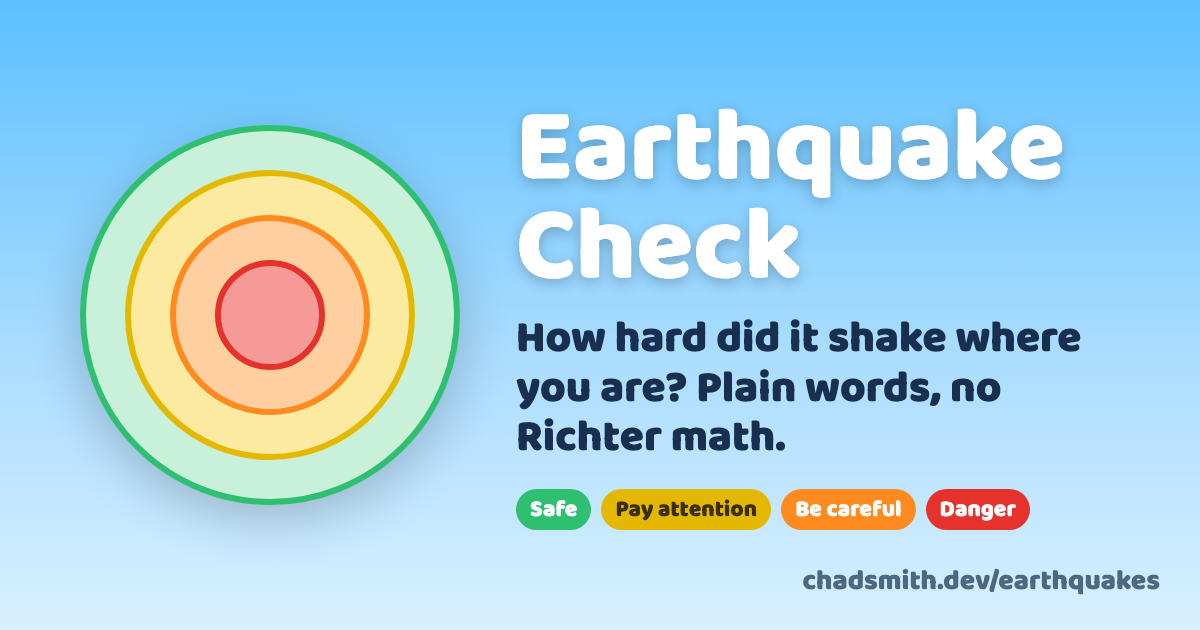
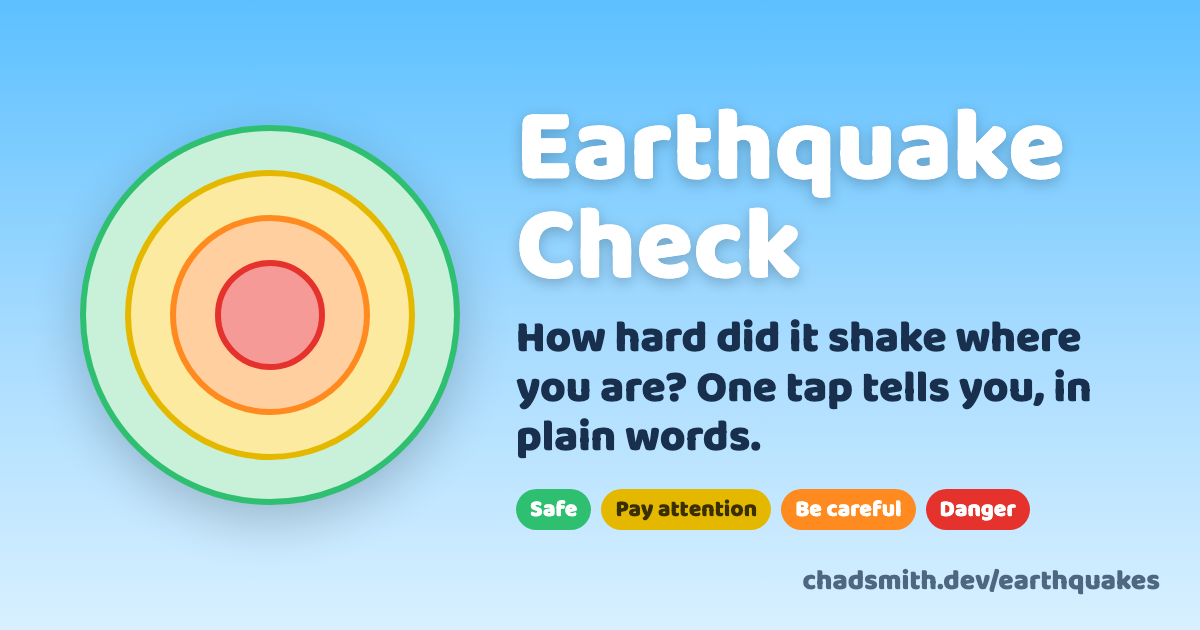
earthquake share card: drop richter line

Changed region(s): [[0.4317, 0.573, 0.925, 0.7238]]

diff --git a/tools/og-card.html b/tools/og-card.html
@@ -41,7 +41,7 @@
   const quakes = location.hash === "#quakes";
   document.getElementById("title").textContent = quakes ? "Earthquake Check" : "Tsunami Check";
   document.getElementById("line").textContent = quakes
-    ? "How hard did it shake where you are? Plain words, no Richter math."
+    ? "How hard did it shake where you are? One tap tells you, in plain words."
     : "Is a tsunami coming? One tap tells you, in plain words.";
   document.getElementById("url").textContent = quakes ? "chadsmith.dev/earthquakes" : "chadsmith.dev/tsunami";
   const art = document.getElementById("art");
